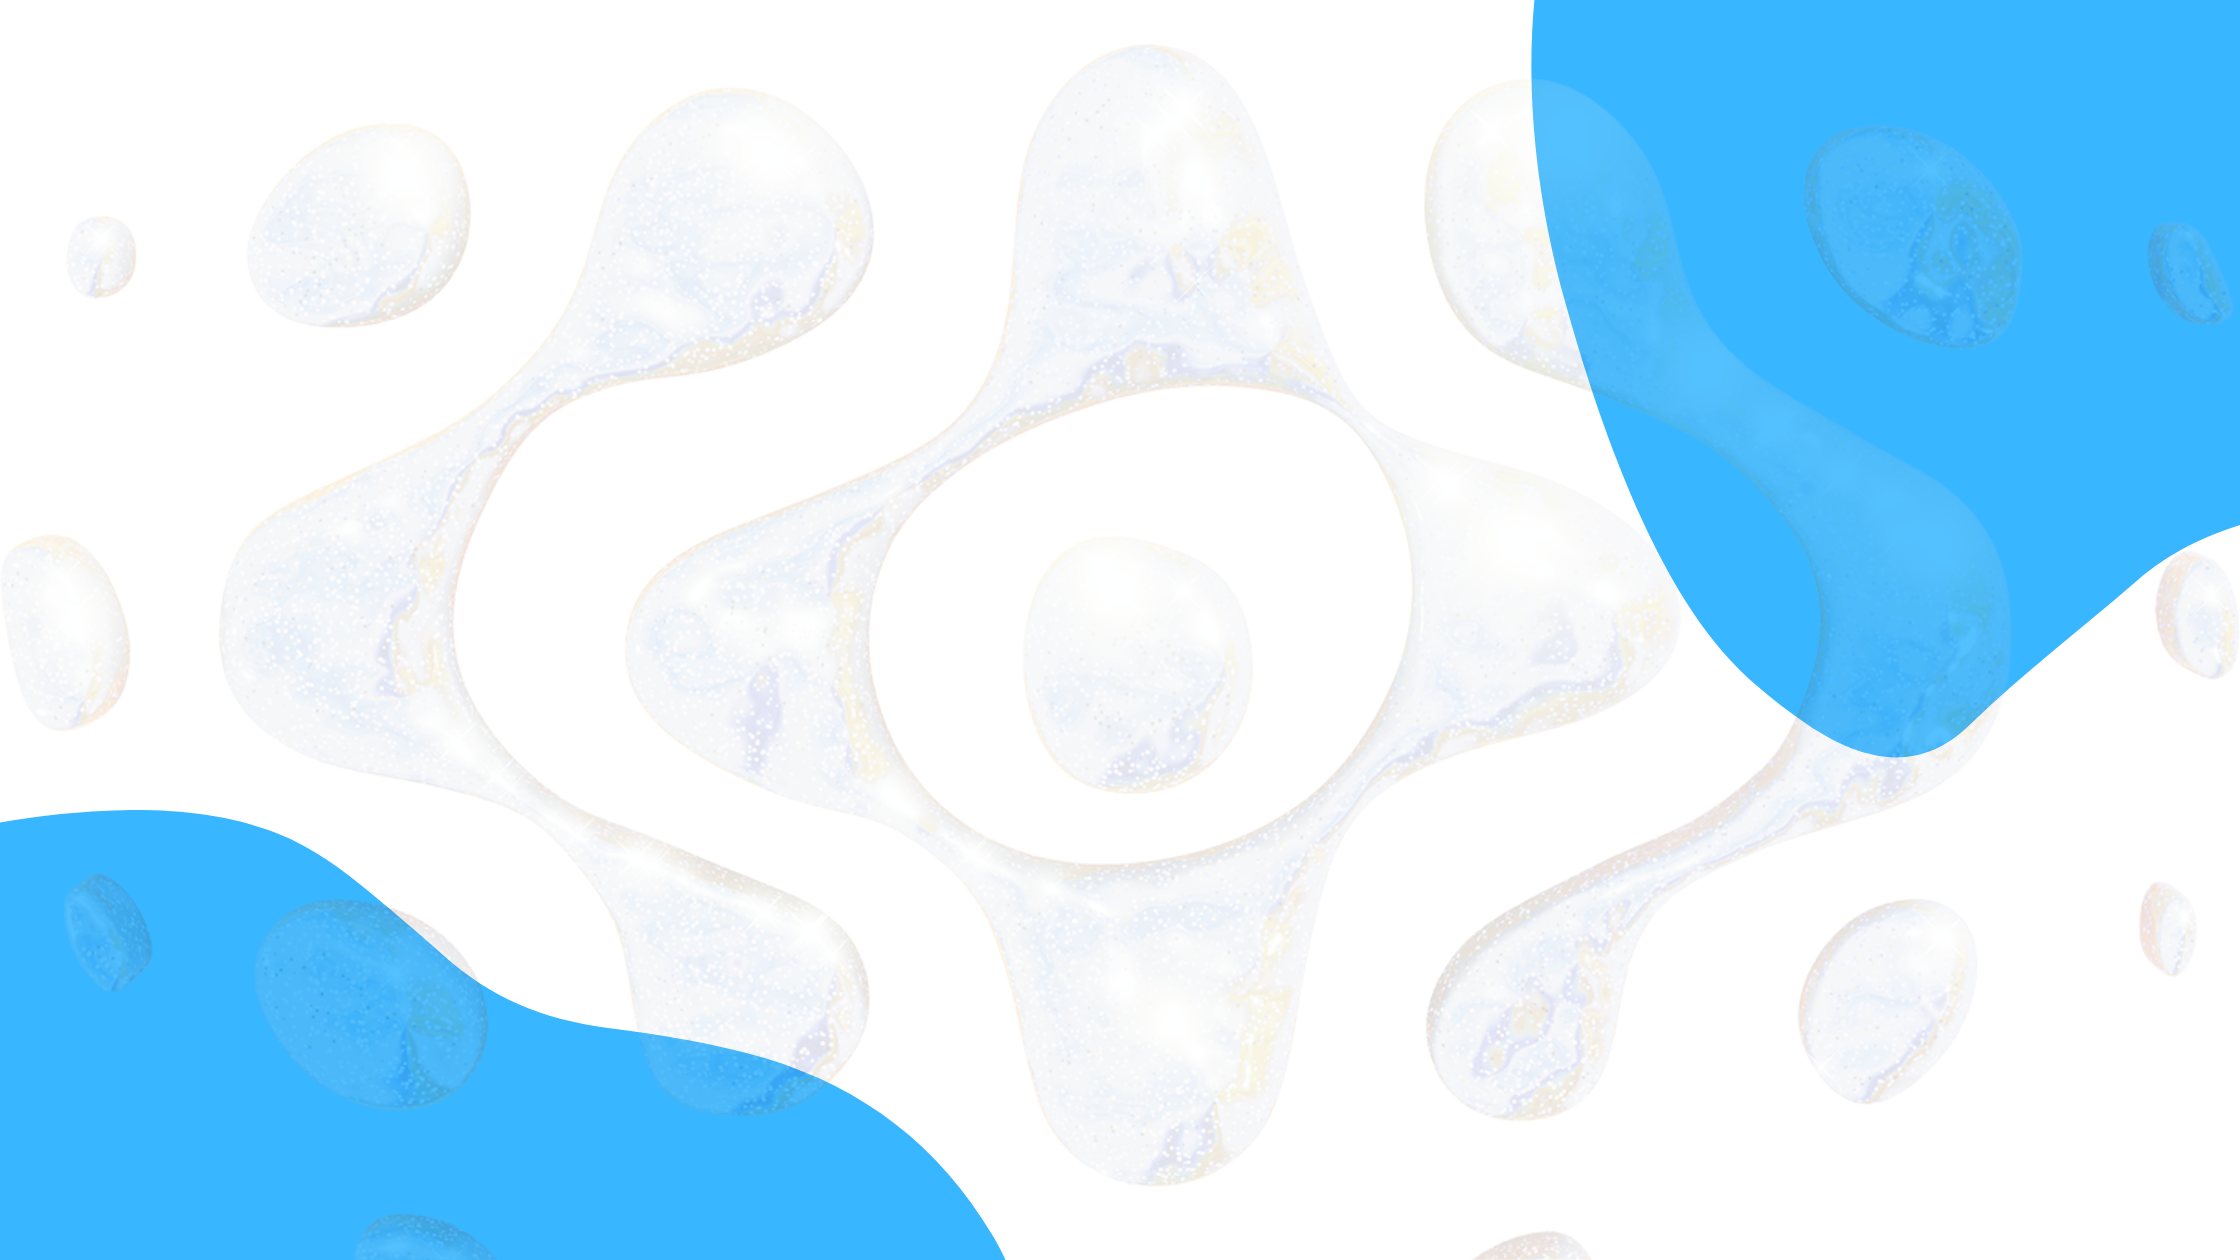
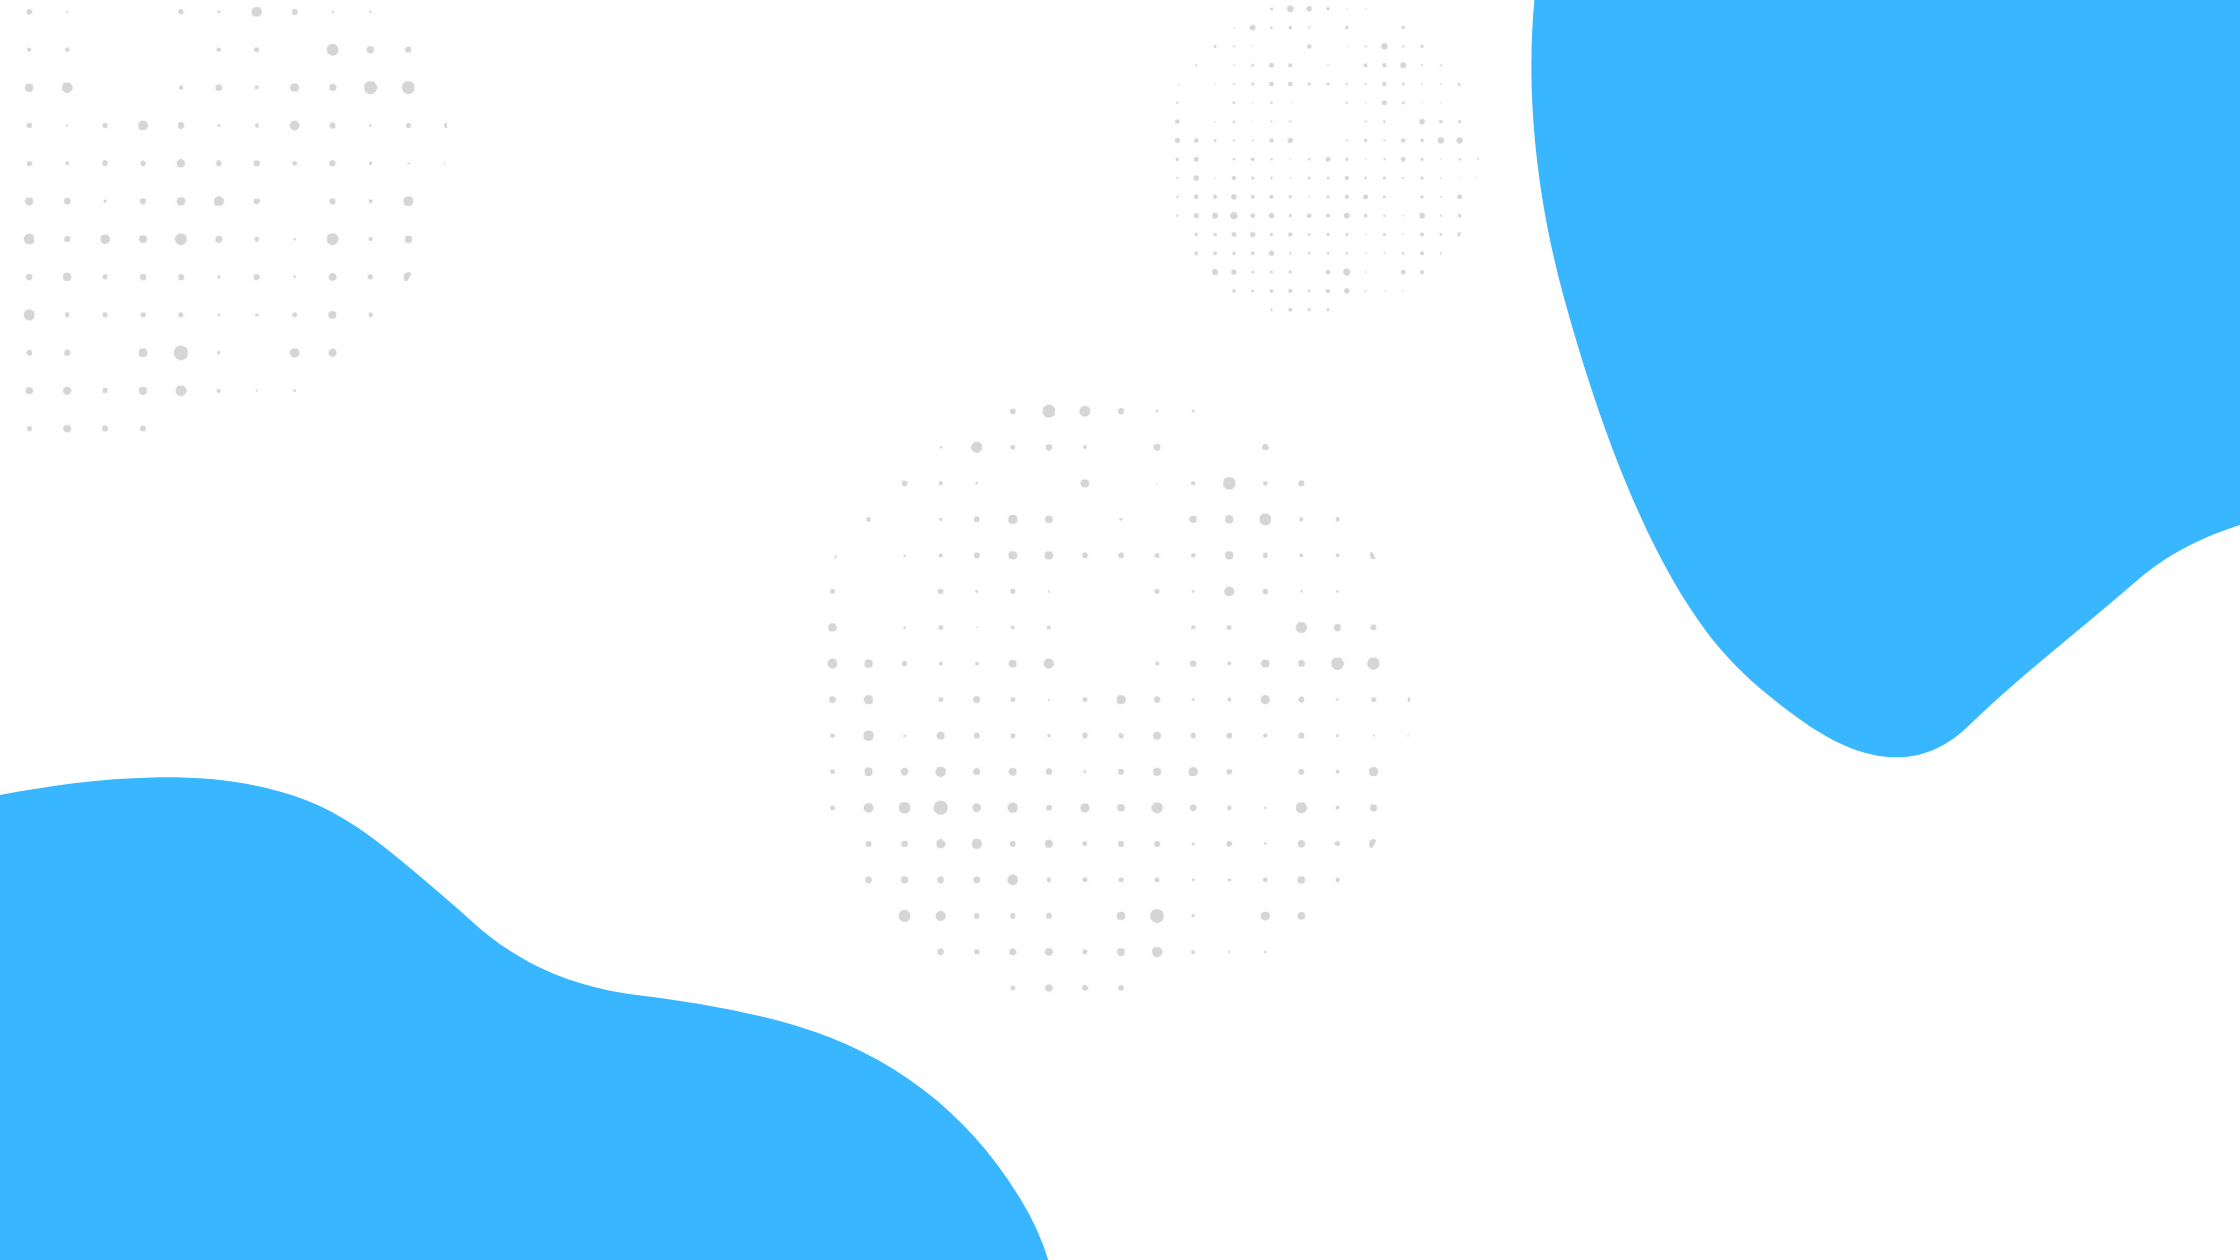
updated

diff --git a/src/Components/Footer.jsx b/src/Components/Footer.jsx
@@ -3,87 +3,83 @@ import { NavLink } from 'react-router-dom';
 
 const Footer = () => {
   return (
-    <>
-      <footer className="bg-gradient-to-r from-purple-600 to-blue-500 text-white py-8 px-4 sm:px-8 md:px-16 lg:px-32 text-justify shadow-lg rounded-lg">
-        <div className="grid grid-cols-1 md:grid-cols-3 sm:grid-cols-3 gap-8">
-          {/* Subscribe Section */}
-          <div className="bg-gradient-to-r from-green-400 to-blue-500 p-4 rounded-lg shadow-md transition-transform duration-300 transform hover:scale-105">
-            <h3 className="font-bold mb-4">Subscribe Our Newsletter</h3>
-            <p className="mb-4">
-              Stay updated with the latest news and exclusive offers. Join our newsletter for valuable insights and exciting updates in the world of technology and innovation.
-            </p>
-            <div className="flex items-center">
-              <input
-                type="email"
-                placeholder="Your Email"
-                className="bg-white text-black w-full rounded-xl p-2"
-              />
-              <button
-                className="ml-2 bg-blue-600 hover:bg-blue-500 text-white font-bold py-2 px-4 rounded-xl transition duration-300 ease-in-out"
-              >
-                Send
-              </button>
-            </div>
-          </div>
-
-          {/* Quick NavLinks Section */}
-          <div className="bg-gradient-to-r from-red-400 to-yellow-500 p-4 rounded-lg shadow-md transition-transform duration-300 transform hover:scale-105">
-            <h3 className="font-bold mb-4">Quick NavLinks</h3>
-            <ul>
-              <li className="mb-2">
-                <NavLink to="/services" className="hover:underline">Services</NavLink>
-              </li>
-              <li className="mb-2">
-                <NavLink to="/contact-us" className="hover:underline">Contact Us</NavLink>
-              </li>
-              <li className="mb-2">
-                <NavLink to="/career" className="hover:underline">Career</NavLink>
-              </li>
-              <li className="mb-2">
-                <NavLink to="/privacy-policy" className="hover:underline">Privacy Policy</NavLink>
-              </li>
-              <li className="mb-2">
-                <NavLink to="/terms-conditions" className="hover:underline">Terms & Conditions</NavLink>
-              </li>
-            </ul>
-          </div>
-
-          {/* Address Section */}
-          <div className="bg-gradient-to-r from-blue-300 to-blue-500 p-4 rounded-lg shadow-md transition-transform duration-300 transform hover:scale-105">
-            <h3 className="font-bold mb-4">Address</h3>
-            <ul>
-              <li className="mb-2 flex items-center">
-                <span className="mr-2">📍</span> PECHS Block 2, Karachi, Pakistan
-              </li>
-              <li className="mb-2 flex items-center">
-                <span className="mr-2">📞</span> +012 345 67890
-              </li>
-              <li className="mb-4 flex items-center">
-                <span className="mr-2">📧</span> info@example.com
-              </li>
-              <div className="flex space-x-4">
-                <a href="#" className="text-white hover:text-blue-600 transition duration-300"><FaFacebookF /></a>
-                <a href="#" className="text-white hover:text-blue-400 transition duration-300"><FaTwitter /></a>
-                <a href="#" className="text-white hover:text-pink-500 transition duration-300"><FaInstagram /></a>
-                <a href="#" className="text-white hover:text-blue-800 transition duration-300"><FaLinkedinIn /></a>
-              </div>
-            </ul>
-          </div>
-        </div>
-
-        <div className="border-t border-gray-300 mt-8 pt-4 text-center">
-          <p className="text-sm">
-            © <span className="font-bold">NexOusTech</span>, All Rights Reserved.
+    <footer className="bg-gradient-to-r from-gray-900 to-black text-white py-8 px-4 sm:px-8 md:px-16 lg:px-32 text-justify shadow-lg rounded-lg">
+      <div className="grid grid-cols-1 md:grid-cols-3 sm:grid-cols-3 gap-8">
+        {/* Subscribe Section */}
+        <div className="bg-gradient-to-r from-gray-800 to-gray-600 p-4 rounded-lg shadow-lg transition-transform duration-300 transform hover:scale-105">
+          <h3 className="font-bold mb-4">Subscribe Our Newsletter</h3>
+          <p className="mb-4">
+            Stay updated with the latest news and exclusive offers. Join our newsletter for valuable insights and exciting updates in the world of technology and innovation.
           </p>
-          <div className="flex justify-center space-x-4">
-            <NavLink to="/" className="hover:underline">Home</NavLink>
-            <NavLink to="/cookies" className="hover:underline">Cookies</NavLink>
-            <NavLink to="/help" className="hover:underline">Help</NavLink>
-            <NavLink to="/faqs" className="hover:underline">FAQs</NavLink>
+          <div className="flex items-center">
+            <input
+              type="email"
+              placeholder="Your Email"
+              className="bg-white text-black w-full rounded-xl p-2"
+            />
+            <button className="ml-2 bg-blue-600 hover:bg-blue-500 text-white font-bold py-2 px-4 rounded-xl transition duration-300 ease-in-out">
+              Send
+            </button>
           </div>
         </div>
-      </footer>
-    </>
+
+        {/* Quick NavLinks Section */}
+        <div className="bg-gradient-to-r from-gray-800 to-gray-600 p-4 rounded-lg shadow-lg transition-transform duration-300 transform hover:scale-105">
+          <h3 className="font-bold mb-4">Quick NavLinks</h3>
+          <ul>
+            <li className="mb-2">
+              <NavLink to="/services" className="hover:underline">Services</NavLink>
+            </li>
+            <li className="mb-2">
+              <NavLink to="/contact-us" className="hover:underline">Contact Us</NavLink>
+            </li>
+            <li className="mb-2">
+              <NavLink to="/career" className="hover:underline">Career</NavLink>
+            </li>
+            <li className="mb-2">
+              <NavLink to="/privacy-policy" className="hover:underline">Privacy Policy</NavLink>
+            </li>
+            <li className="mb-2">
+              <NavLink to="/terms-conditions" className="hover:underline">Terms & Conditions</NavLink>
+            </li>
+          </ul>
+        </div>
+
+        {/* Address Section */}
+        <div className="bg-gradient-to-r from-gray-800 to-gray-600 p-4 rounded-lg shadow-lg transition-transform duration-300 transform hover:scale-105">
+          <h3 className="font-bold mb-4">Address</h3>
+          <ul>
+            <li className="mb-2 flex items-center">
+              <span className="mr-2">📍</span> PECHS Block 2, Karachi, Pakistan
+            </li>
+            <li className="mb-2 flex items-center">
+              <span className="mr-2">📞</span> +012 345 67890
+            </li>
+            <li className="mb-4 flex items-center">
+              <span className="mr-2">📧</span> info@example.com
+            </li>
+            <div className="flex space-x-4">
+              <a href="#" className="text-white hover:text-blue-600 transition duration-300"><FaFacebookF /></a>
+              <a href="#" className="text-white hover:text-blue-400 transition duration-300"><FaTwitter /></a>
+              <a href="#" className="text-white hover:text-pink-500 transition duration-300"><FaInstagram /></a>
+              <a href="#" className="text-white hover:text-blue-800 transition duration-300"><FaLinkedinIn /></a>
+            </div>
+          </ul>
+        </div>
+      </div>
+
+      <div className="border-t border-gray-300 mt-8 pt-4 text-center">
+        <p className="text-sm">
+          © <span className="font-bold">NexOusTech</span>, All Rights Reserved.
+        </p>
+        <div className="flex justify-center space-x-4">
+          <NavLink to="/" className="hover:underline">Home</NavLink>
+          <NavLink to="/cookies" className="hover:underline">Cookies</NavLink>
+          <NavLink to="/help" className="hover:underline">Help</NavLink>
+          <NavLink to="/faqs" className="hover:underline">FAQs</NavLink>
+        </div>
+      </div>
+    </footer>
   );
 };
 

diff --git a/src/pages/ProjectFunc.jsx b/src/pages/ProjectFunc.jsx
@@ -1,0 +1,133 @@
+import React, { useState, useEffect } from 'react';
+
+// Sample Testimonials Data
+const testimonials = [
+  {
+    id: 1,
+    name: "Alice Johnson",
+    title: "CEO, Tech Innovations",
+    image: "https://via.placeholder.com/100",
+    description: "Fantastic service! Our project was handled professionally and exceeded expectations.",
+  },
+  {
+    id: 2,
+    name: "David Smith",
+    title: "Marketing Head, Soft Solutions",
+    image: "https://via.placeholder.com/100",
+    description: "An absolute pleasure to work with! The team's creativity is unmatched.",
+  },
+  // Add more testimonials as needed...
+];
+
+// Project Functions Component
+const ProjectFunctions = () => {
+  return (
+    <div className="flex flex-col items-center">
+      <h2 className="text-3xl font-bold text-blue-900 mb-4">Our Project Functions</h2>
+      <p className="text-gray-600 mb-8 text-center">We offer a wide range of project functions to ensure your success.</p>
+      <div className="grid grid-cols-1 md:grid-cols-2 lg:grid-cols-3 gap-8">
+        <div className="bg-white p-6 rounded-lg shadow-lg transform transition-transform hover:scale-105">
+          <h3 className="text-xl font-semibold text-blue-500 mb-2">Function 1</h3>
+          <p className="text-gray-700">Description of function 1.</p>
+        </div>
+        <div className="bg-white p-6 rounded-lg shadow-lg transform transition-transform hover:scale-105">
+          <h3 className="text-xl font-semibold text-blue-500 mb-2">Function 2</h3>
+          <p className="text-gray-700">Description of function 2.</p>
+        </div>
+        <div className="bg-white p-6 rounded-lg shadow-lg transform transition-transform hover:scale-105">
+          <h3 className="text-xl font-semibold text-blue-500 mb-2">Function 3</h3>
+          <p className="text-gray-700">Description of function 3.</p>
+        </div>
+        {/* Add more functions as needed */}
+      </div>
+    </div>
+  );
+};
+
+// Testimonials Component
+const Testimonials = () => {
+  const [current, setCurrent] = useState(0);
+
+  const nextTestimonial = () => {
+    setCurrent((prev) => (prev + 1) % testimonials.length);
+  };
+
+  const prevTestimonial = () => {
+    setCurrent((prev) => (prev - 1 + testimonials.length) % testimonials.length);
+  };
+
+  useEffect(() => {
+    const interval = setInterval(() => {
+      nextTestimonial();
+    }, 4000); // Slide every 4 seconds
+
+    return () => clearInterval(interval); // Clean up interval on unmount
+  }, []);
+
+  return (
+    <div className="my-24">
+      <h2 className="text-3xl font-bold text-blue-900 text-center mb-8">What Our Clients Say</h2>
+      <div className="relative flex justify-center items-center">
+        <div
+          className="relative flex items-center justify-center w-full md:w-2/3 p-8 bg-gradient-to-r from-blue-400 to-purple-500 rounded-lg shadow-lg transition-transform duration-500 ease-in-out"
+        >
+          <div className="w-full h-full text-center text-white">
+            <img
+              src={testimonials[current].image}
+              alt={testimonials[current].name}
+              className="w-20 h-20 rounded-full border-2 border-white mx-auto mb-4"
+            />
+            <h3 className="text-xl font-semibold">{testimonials[current].name}</h3>
+            <p className="text-sm italic">{testimonials[current].title}</p>
+            <p className="mt-4">{testimonials[current].description}</p>
+          </div>
+        </div>
+        {/* Navigation Buttons */}
+        <button
+          onClick={prevTestimonial}
+          className="absolute left-4 top-1/2 transform -translate-y-1/2 bg-white text-blue-500 p-3 rounded-full shadow-md focus:outline-none hover:bg-gray-200 transition"
+        >
+          &lt;
+        </button>
+        <button
+          onClick={nextTestimonial}
+          className="absolute right-4 top-1/2 transform -translate-y-1/2 bg-white text-blue-500 p-3 rounded-full shadow-md focus:outline-none hover:bg-gray-200 transition"
+        >
+          &gt;
+        </button>
+      </div>
+    </div>
+  );
+};
+
+// Project Completion Component
+const ProjectCompletion = () => {
+  return (
+    <div className="py-24 bg-gray-50">
+      <h2 className="text-3xl font-bold text-blue-900 text-center mb-8">Project Completion Rate</h2>
+      <div className="flex justify-center">
+        <div className="bg-white p-10 rounded-lg shadow-lg">
+          <h3 className="text-2xl font-semibold text-blue-500 mb-4">95% Completion Rate</h3>
+          <p className="text-gray-700">We are proud to have a high completion rate, ensuring that your projects are delivered on time and to your satisfaction.</p>
+        </div>
+      </div>
+    </div>
+  );
+};
+
+// Main Page Component
+const ProjectPage = () => {
+  return (
+    <div className="container mx-auto px-4">
+      <header className="py-12">
+        <h1 className="text-5xl font-bold text-blue-900 text-center">Our Projects</h1>
+        <p className="text-gray-600 text-center mt-4">Delivering excellence in every project.</p>
+      </header>
+      <ProjectFunctions />
+      <ProjectCompletion />
+      <Testimonials />
+    </div>
+  );
+};
+
+export default ProjectPage;

diff --git a/src/pages/Home.jsx b/src/pages/Home.jsx
@@ -4,13 +4,14 @@ import ThreeCards from './ThreeCards';
 import Overview from './Overview';
 import Testimonials from './Testimonials';
 import ContactUs from "./ContactUs";
-
+import ProjectFunc from './ProjectFunc';
 
 function Home() {
   return (
     <>
       <HeroSection />
       <ThreeCards/>
+      <ProjectFunc />
       <PagesBus />
       <Overview />
       <Testimonials />

diff --git a/src/pages/About.jsx b/src/pages/About.jsx
@@ -3,7 +3,7 @@ const About = () => {
     <section 
       className="py-16 text-gray-800"
       style={{
-        backgroundImage: 'url("./banner.png")', // Replace with your image path
+        backgroundImage: 'url("./back.png")', // Replace with your image path
         backgroundSize: 'cover',
         backgroundPosition: 'center',
       }}
